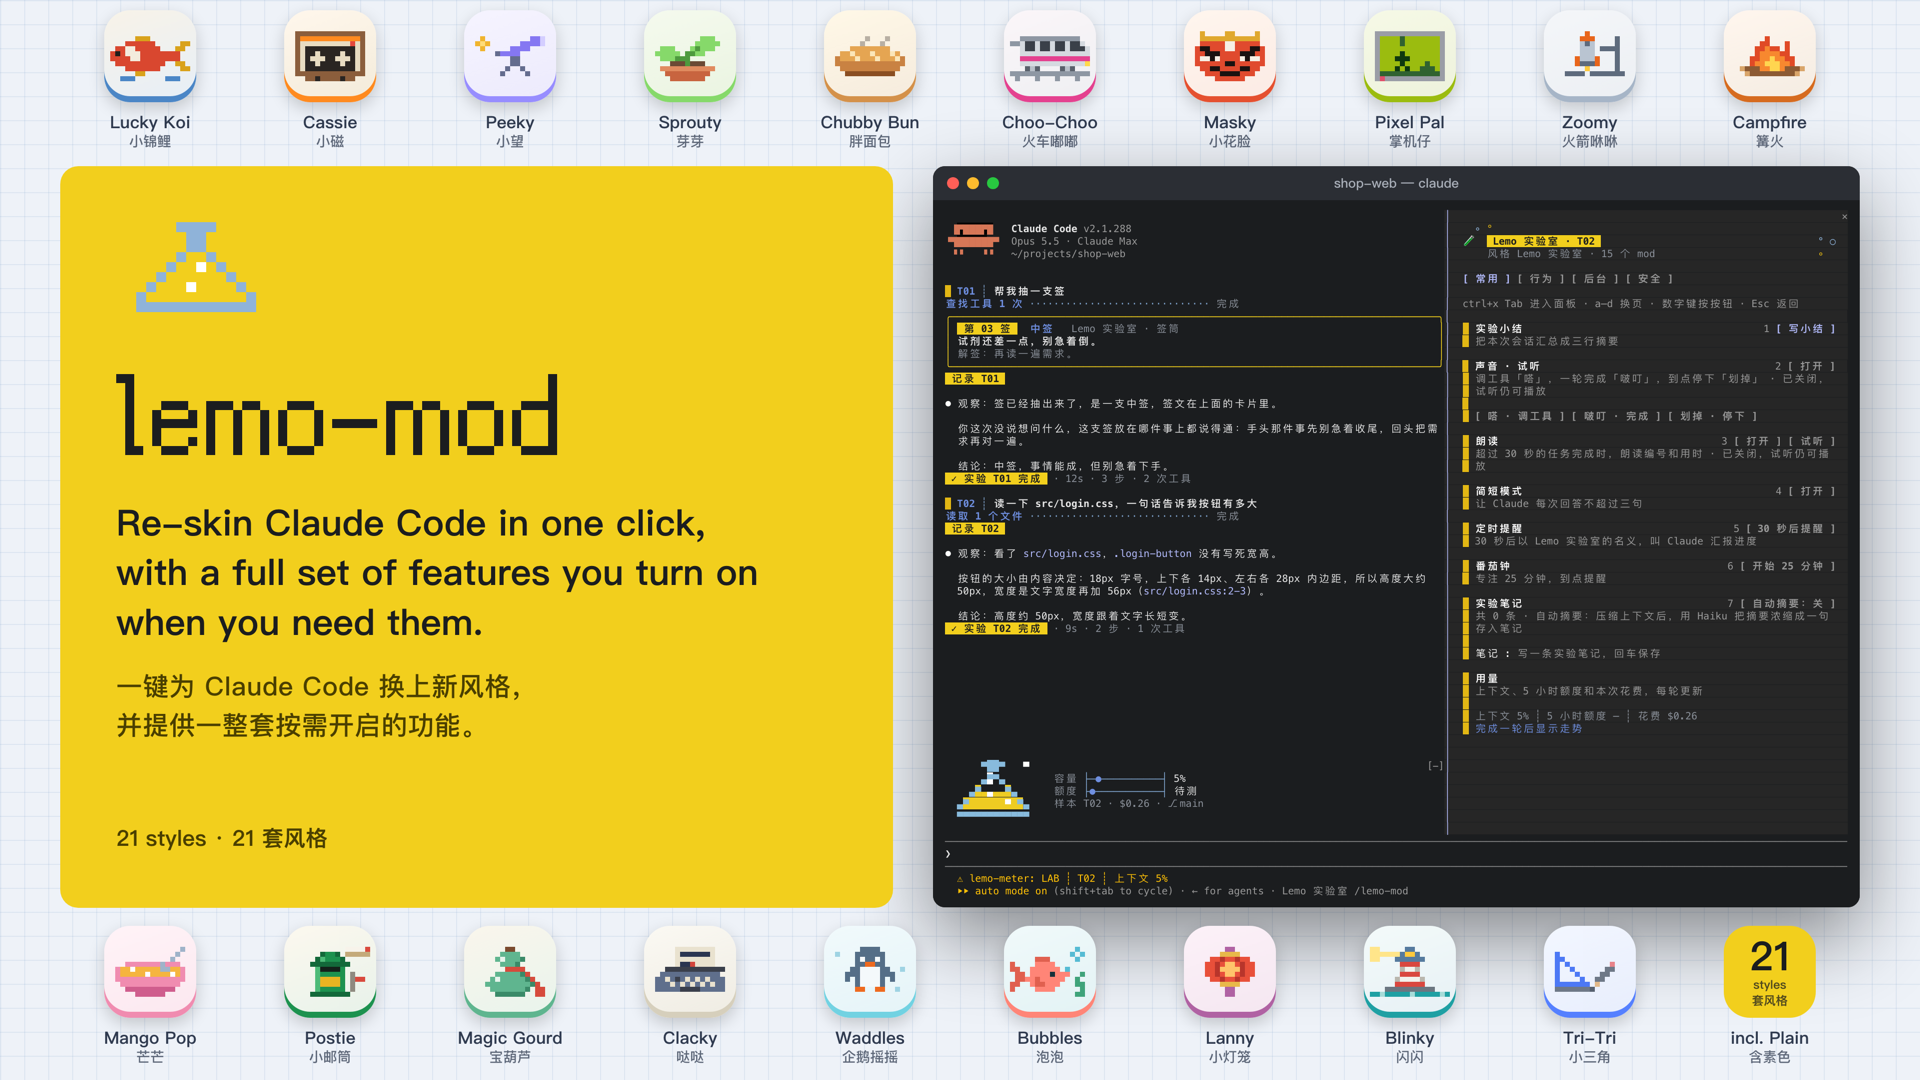
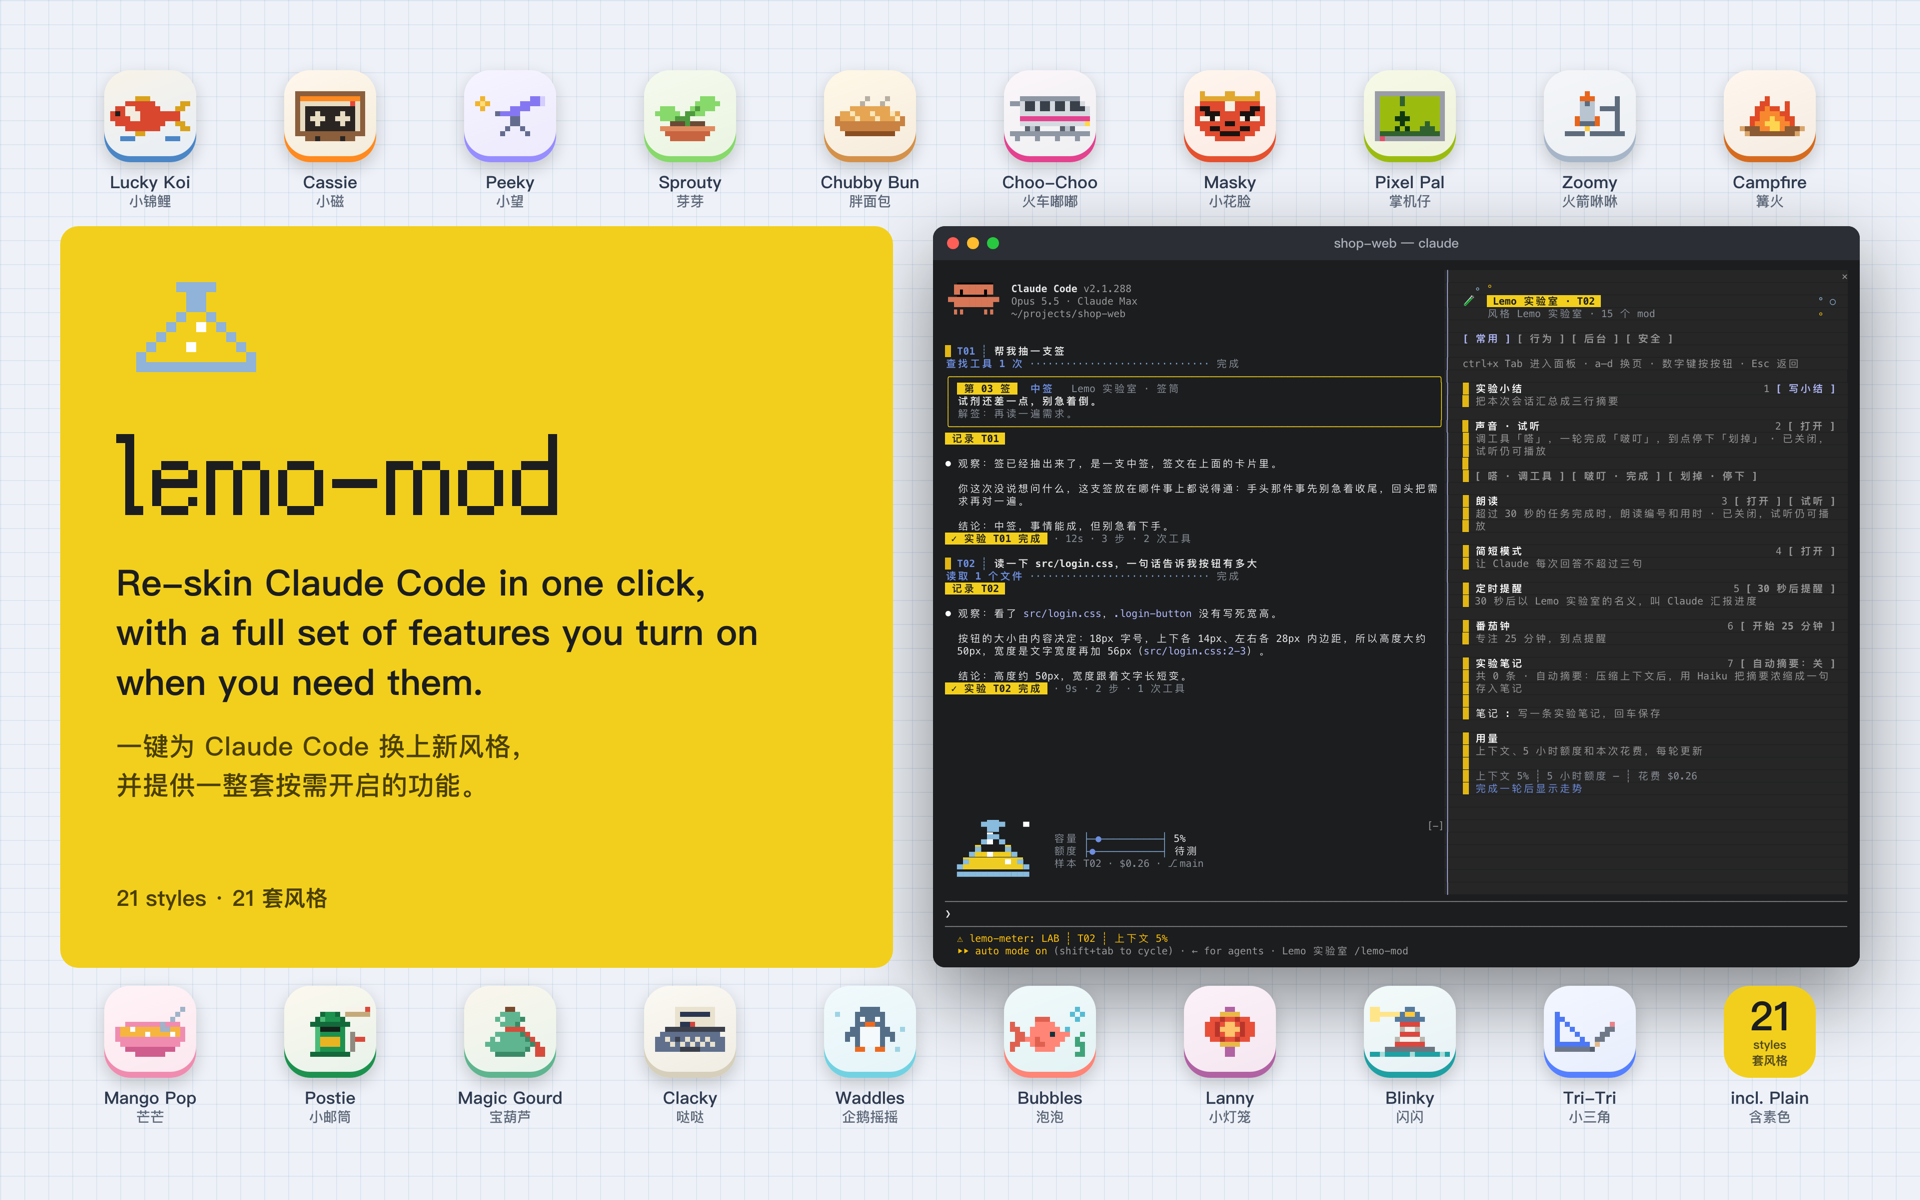
Split README into English (default) and Chinese
README.md is now English, with a bilingual intro and a clear pointer for
Chinese readers; the full Chinese version moves to README.zh-CN.md.
The README cover gets more room above and below (16:10).

diff --git a/README.zh-CN.md b/README.zh-CN.md
@@ -1,0 +1,180 @@
+<div align="center">
+
+# lemo-mod
+
+[**English**](README.md) · **简体中文**
+
+**一键为 Claude Code 换上新风格，并提供一整套按需开启的功能。**<br>
+**21 套风格，终端和桌面 App 都能用。**
+
+<img src="assets/readme/cover.png" width="100%" alt="lemo-mod 的 21 套风格">
+
+[**▶ 看全部风格**](https://lemomo-ai.github.io/lemo-mod/)
+
+</div>
+
+## lemo-mod 是什么
+
+lemo-mod 是一组基于 Claude Code 官方 mod 接口的风格化 mod。装上之后，终端里的 Claude Code 和桌面 App 的 Code 标签都能一键换风格，配色、像素小画、加载词、音效和名字一起换。
+
+除了外观，lemo-mod 还提供一整套功能，包括四页面板、用量横条、状态栏、消息编号和回复标签、音效、朗读、简短模式、定时提醒、番茄钟、笔记、会话小结、每轮统计、限时、日志、自动分类、抽签工具和一个只读助手。你的设置只读不改，外观以外的功能都由你自己开启。
+
+## 装上以后
+
+<p align="center"><img src="assets/readme/flow-zh.png" width="900" alt="安装 → 打开 Claude Code → 安全检查 → 想用什么开什么"></p>
+
+**外观装上即生效。** 你的每条消息带上 `T01`、`T02` 这样的编号，Claude 的回复会标明对应哪一条。工具行、耗时行和加载词换成风格样式。输入框上方的横条显示上下文、5 小时额度、花费和 git 分支，下方是状态栏。Claude 的提问弹窗加上标题。输入 `/lemo-mod` 打开面板，共四页，分别是常用、行为、后台和安全。
+
+**第一次打开时，面板先显示安全页。** 看完每个功能的说明，打开想用的，再点「我看完了」。之后随时可以在安全页开关任何一项。点「全部关闭」会一次关掉外观以外的所有功能，其中编号说明和抽签工具要到下一个会话才完全消失。
+
+<table>
+<tr>
+<td><b>提示音</b><br>调用工具和一轮结束时播放风格音效<br><sub>开关 · 音效</sub></td>
+<td><b>朗读</b><br>长任务结束时朗读编号和用时<br><sub>开关 · 朗读</sub></td>
+<td><b>简短模式</b><br>每次回答不超过三句<br><sub>开关 · 附加提示</sub></td>
+<td><b>记录口吻</b><br>首行说明看了什么，末行给出结论<br><sub>开关 · 附加提示</sub></td>
+</tr>
+<tr>
+<td><b>限时</b><br>单轮工作超时自动中止<br><sub>开关 · 代你操作</sub></td>
+<td><b>日志</b><br>每轮一行，写进 <code>~/.claude/lemo-mod/journal.md</code><br><sub>开关 · 写文件</sub></td>
+<td><b>自动分类</b><br>给每条消息标上提问、改代码、排查或闲聊<br><sub>开关 · 额外用量 · 消息开头发给小模型</sub></td>
+<td><b>压缩后自动摘要</b><br>压缩上下文后存一句笔记<br><sub>开关 · 额外用量 · 压缩摘要发给小模型</sub></td>
+</tr>
+<tr>
+<td><b>抽签工具</b><br>说一句「抽支签」，Claude 就抽一支<br><sub>开关 · 新增工具</sub></td>
+<td><b>编号说明</b><br>告诉 Claude <code>T03</code> 指的是哪一条<br><sub>开关 · 附加提示</sub></td>
+<td><b>Claude 可派助手</b><br>允许 Claude 自己派只读助手<br><sub>开关 · 额外用量 · 报告进入对话</sub></td>
+<td><b>会话小结</b><br>把本次会话汇总成三行摘要<br><sub>手动触发 · 主模型读整段对话</sub></td>
+</tr>
+<tr>
+<td><b>定时提醒</b><br>N 秒后请 Claude 汇报进度<br><sub>手动触发</sub></td>
+<td><b>番茄钟</b><br>横条上倒计时，到点提醒<br><sub>手动触发</sub></td>
+<td><b>派助手写周报</b><br>只读助手写三行周报<br><sub>手动触发 · 报告进入对话</sub></td>
+<td><b>检查新版本</b><br>唯一访问外部网站的一项<br><sub>手动触发</sub></td>
+</tr>
+</table>
+
+<sub><b>开关</b> 装上时关着，可在安全页随时开关。<b>手动触发</b> 只在你点按钮或输入命令时运行。</sub>
+
+## 安全
+
+mod 以你的权限运行，所以选择可信的 mod 很重要。lemo-mod 遵循以下原则，详见 [SAFETY.md](SAFETY.md)。
+
+1. **不替你做权限决定。** 任何工具调用都不由 mod 放行或拦截，全按你自己的设置和权限模式。
+2. **你的设置只读不改。** 只读取和 mod 重叠的几项，只在本机读取，不保存，也不发给 Claude。
+3. **装上时只开外观。** 其他功能默认关闭。
+4. **自动功能都在安全页有开关。** 手动功能只在你点按钮或输入命令时运行。输入 `/lemo-mod 安全` 打开安全页。
+5. **和你的配置重叠时，以你的为准。** 比如你设置了自己的状态栏或加载词，就继续用你的，安全页会写明原因。
+
+想在安装前自己检查，可以克隆本仓库并运行 `claude plugin validate plugins/<mod>`。输出中的 `hooks:` 和 `calls:` 两行列出每个 mod 接管哪些事件、请 Claude Code 做哪些事。
+
+## 安装
+
+需要 Claude Code v2.1.287 或更高版本，可用 `claude --version` 查看。在终端运行：
+
+```sh
+claude plugin marketplace add lemomo-ai/lemo-mod
+claude plugin install lemo-mod@lemo-mod
+```
+
+装好后重开 Claude Code，终端或桌面 App 的 Code 标签都可以。面板会先显示安全页，你可以试听音效和朗读，打开想用的功能，再点「我看完了」。终端宽度不足 144 列时，输入 `/lemo-mod 安全` 打开。之后每开一个新会话，横条上都会列出已开启的功能，不会有功能悄悄运行。
+
+`lemo-mod` 会装上全部 16 个 mod，每个 mod 都是独立插件。不想要哪处外观或哪个功能，在安全页关掉就行。想把某个 mod 整个关掉，要先关掉合集 `lemo-mod`，再关那个 mod。合集只是一份清单，关掉它不影响任何 mod。在 `/plugin` 里按这个顺序操作，或者运行：
+
+```sh
+claude plugin disable lemo-mod@lemo-mod
+claude plugin disable lemo-spinner@lemo-mod
+```
+
+重新打开合集，16 个 mod 会一起打开。
+
+想要最好的效果，请让 Claude Code 的主题和终端本身的明暗保持一致，比如黑底终端配深色主题。主题用 `/theme` 设置。桌面 App 用浅色模式效果最好。
+
+## 使用
+
+| 输入 | 作用 |
+|---|---|
+| `/lemo-mod` | 打开面板 |
+| `/lemo-mod 安全` | 打开安全页，`常用`、`行为`、`后台` 同理 |
+| `/lemo-mod 风格 <名字>` | 换风格，不带名字时列出全部 |
+| `/lemo-mod 起名 <名字>` | 给当前风格起名，不带名字时恢复原名 |
+| `/lemo-mod 静音` 或 `声音` | 关闭或打开声音 |
+| `/lemo-mod 朗读` | 试听朗读 |
+| `/lemo-mod 简短` | 开关简短模式 |
+| `/lemo-mod 番茄 25` | 开始 25 分钟番茄钟 |
+| `/lemo-mod 提醒 30` | 30 秒后请 Claude 汇报进度 |
+| `/lemo-mod 总结` | 生成三行会话小结 |
+
+在终端里按 `ctrl+x Tab` 进入面板，`a` 到 `d` 切换页面，数字键按卡片上的按钮，`Esc` 回到输入框。界面语言跟随你最近一条消息，中文或英文。
+
+## 风格
+
+共 21 套风格。其中 20 套主题风格各有自己的配色、像素小画、加载词、音效和名字，另有一套素色，没有小画，音效沿用默认。
+
+Lemo 实验室 · 小锦鲤 · 小磁 · 小望 · 芽芽 · 胖面包 · 火车嘟嘟 · 小花脸 · 掌机仔 · 火箭咻咻 · 篝火 · 芒芒 · 小邮筒 · 宝葫芦 · 哒哒 · 企鹅摇摇 · 泡泡 · 小灯笼 · 闪闪 · 小三角 · 素色
+
+[查看每套风格在终端和桌面 App 里的浅色与深色效果](https://lemomo-ai.github.io/lemo-mod/)
+
+## 在哪能用
+
+| 在哪 | 能看到什么 |
+|---|---|
+| 终端里的 `claude` | 全部 |
+| 桌面 App 的 Code 标签 | App 无法显示的部分会隐藏，其余全部可见 |
+| VS Code 聊天面板和 `claude -p` | 不显示界面 |
+
+你开启的功能在 VS Code 和 `claude -p` 里同样生效，只是没有界面。
+
+桌面 App 用自动模式时，面板上的「派助手写周报」会被自动模式的审核拦下，因为审核看不到你按了按钮。可以先打开「Claude 可派助手」（「安全」页或助手卡片上都能开），再直接对 Claude 说「派助手写三行周报」；或换成其他权限模式再按。
+
+风格、开关和安全确认只保存一份，所有项目和会话通用，终端和桌面 App 共用。如果从本地文件夹添加 marketplace 或用 `--plugin-dir` 加载，桌面 App 会单独保存一份，需要在两边各确认一次。
+
+## 更新
+
+只更新 `lemo-mod` 合集不会更新其中的 mod，需要逐个更新。更新后重开 Claude Code，或在已打开的会话里输入 `/reload-plugins`。
+
+```sh
+claude plugin marketplace update lemo-mod
+for m in lemo-mod lemo-core lemo-skin lemo-spinner lemo-ask lemo-meter lemo-guard lemo-sound lemo-voice lemo-tone lemo-pomodoro lemo-watch lemo-recap lemo-todo lemo-journal lemo-lot lemo-assistant; do
+  claude plugin update "$m@lemo-mod"
+done
+```
+
+## 卸载
+
+```sh
+claude plugin uninstall lemo-mod@lemo-mod
+claude plugin prune
+claude plugin marketplace remove lemo-mod
+```
+
+开关和笔记保存在 `~/.claude/plugins/store/lemo-*`。开启过日志的话，日志在 `~/.claude/lemo-mod/`。想彻底清除，就把它们一起删掉。
+
+## 每个 mod
+
+| Mod | 做什么 |
+|---|---|
+| `lemo-core` | 风格、语言、消息编号、`/lemo-mod` 面板和安全页 |
+| `lemo-skin` | 消息编号、回复标注，以及风格化的工具行和耗时行 |
+| `lemo-spinner` | 风格化的加载词，附带消息编号 |
+| `lemo-ask` | 在提问弹窗顶部显示消息编号和问题数 |
+| `lemo-meter` | 用量横条、状态栏、git 分支和检查新版本 |
+| `lemo-sound` | 调用工具、一轮结束和限时中止时的提示音 |
+| `lemo-voice` | 长任务结束时朗读编号和用时 |
+| `lemo-tone` | 简短模式和记录口吻 |
+| `lemo-guard` | 限时，单轮工作超时自动中止 |
+| `lemo-pomodoro` | 番茄钟 |
+| `lemo-watch` | 定时提醒，N 秒后请 Claude 汇报进度 |
+| `lemo-recap` | 三行会话小结 |
+| `lemo-todo` | 面板笔记，压缩后可自动摘要 |
+| `lemo-journal` | 每轮统计、日志和自动分类 |
+| `lemo-lot` | 给 Claude 的抽签工具和签文卡片 |
+| `lemo-assistant` | 只读助手，写三行周报 |
+
+## 接下来
+
+接下来会加入组合功能、面板小游戏和更多风格。想要什么风格或 mod，欢迎到 [Issues](https://github.com/lemomo-ai/lemo-mod/issues) 提出。
+
+## 关于
+
+由 Lemo Lab 的 [lemomo](https://github.com/lemomo-ai) 和 Claude 一起制作，采用 MIT 许可证。
